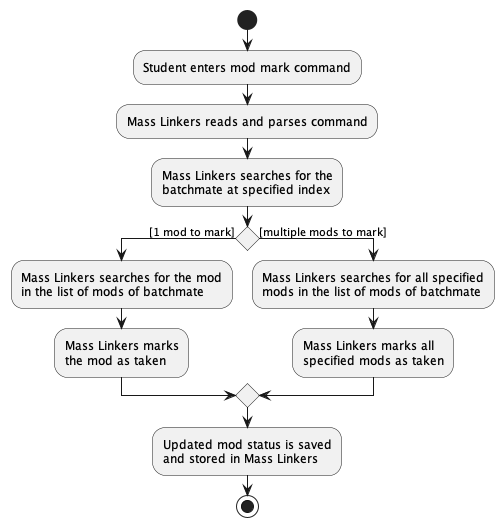
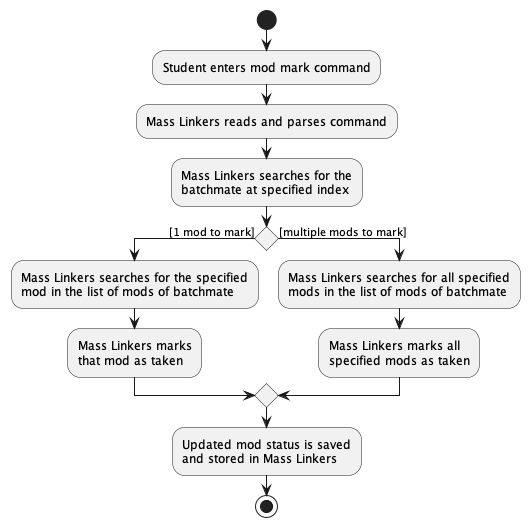
Update DG mod mark activity diagram
Activity diagram for mod mark contains the PlantUML
loop notation which is not taught or used in CS2103T module.

This should not be used and might be seen as a bug to future reviewers.

Let's update the activity diagram to replace that notation with
other appropriate notations allowed in CS2103T module.

diff --git a/docs/DeveloperGuide.md b/docs/DeveloperGuide.md
@@ -168,7 +168,7 @@ The following (partial) class diagram shows how the different classes involved i
 
 The following activity diagram summarises what happens when a student enters a `mod mark` command, assuming the command is valid and no error occurs:
 
-![ModMarkWithLoopActivityDiagram](images/ModMarkWithLoopActivityDiagram.png)
+![ModMarkWithLoopActivityDiagram](images/ModMarkActivityDiagram.png)
 
 #### Design considerations:
 
